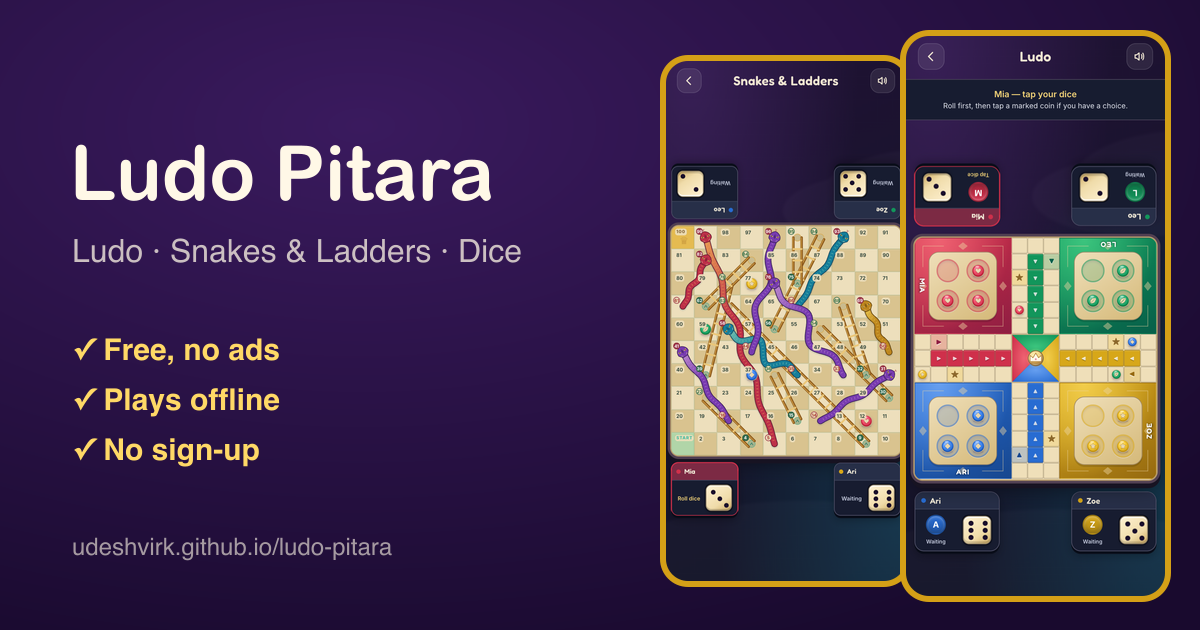
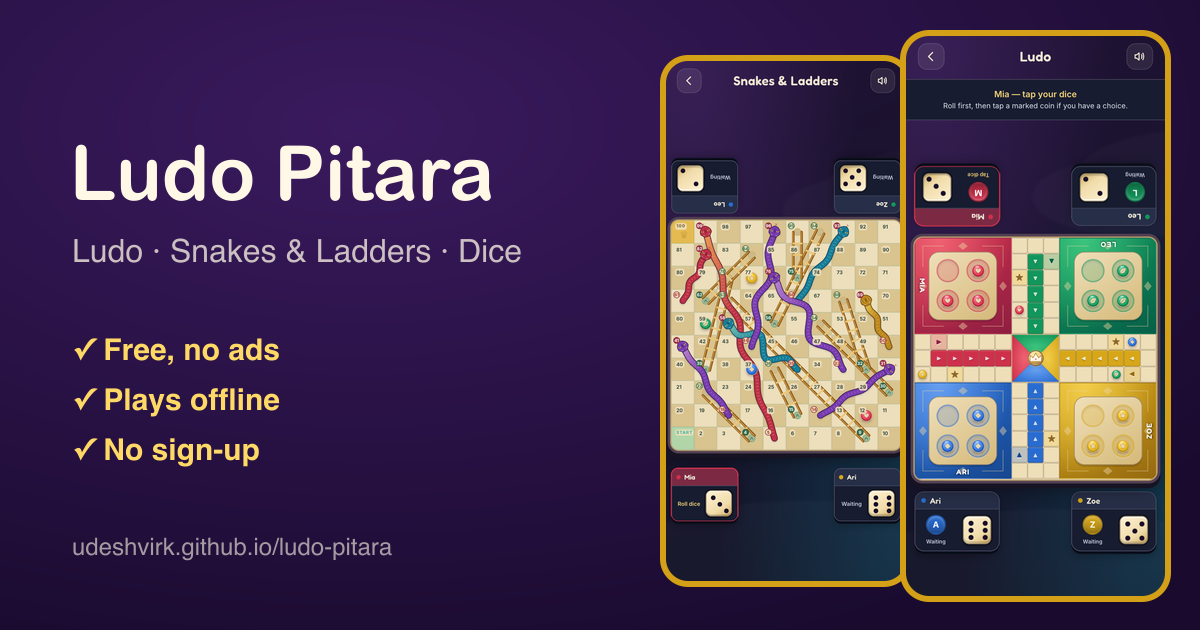
Add clearance between SNL board shadow and phone cards

Changed region(s): [[0.555, 0.2413, 0.7708, 0.8444]]

diff --git a/index.html b/index.html
@@ -17,12 +17,12 @@
     <meta property="og:title" content="Ludo Pitara — free Ludo & Snakes and Ladders, no ads" />
     <meta property="og:description" content="Play with friends on one phone or against bots. No ads, no sign-up, works offline." />
     <meta property="og:url" content="https://udeshvirk.github.io/ludo-pitara/" />
-    <meta property="og:image" content="https://udeshvirk.github.io/ludo-pitara/og-image-26492dc82e.png" />
+    <meta property="og:image" content="https://udeshvirk.github.io/ludo-pitara/og-image-dc3858a4ce.png" />
     <meta property="og:image:width" content="1200" />
     <meta property="og:image:height" content="630" />
     <meta property="og:image:alt" content="Ludo and Snakes & Ladders boards on a phone" />
     <meta name="twitter:card" content="summary_large_image" />
-    <meta name="twitter:image" content="https://udeshvirk.github.io/ludo-pitara/og-image-26492dc82e.png" />
+    <meta name="twitter:image" content="https://udeshvirk.github.io/ludo-pitara/og-image-dc3858a4ce.png" />
     <meta name="theme-color" content="#190a2e" />
     <meta name="apple-mobile-web-app-capable" content="yes" />
     <meta name="apple-mobile-web-app-status-bar-style" content="black-translucent" />

diff --git a/vite.config.ts b/vite.config.ts
@@ -26,8 +26,8 @@ export default defineConfig({
         // Phone screenshots give Android Chrome its richer install sheet.
         screenshots: [
           { src: 'screenshots/ludo.png?v=68b6ff7cba', sizes: '585x1266', type: 'image/png', form_factor: 'narrow', label: 'Ludo' },
-          { src: 'screenshots/snakes-and-ladders.png?v=90b5ef33e8', sizes: '585x1266', type: 'image/png', form_factor: 'narrow', label: 'Snakes & Ladders' },
-          { src: 'screenshots/game-select.png?v=8d7da01609', sizes: '585x1266', type: 'image/png', form_factor: 'narrow', label: 'Choose a game' },
+          { src: 'screenshots/snakes-and-ladders.png?v=8a5ee8aa9a', sizes: '585x1266', type: 'image/png', form_factor: 'narrow', label: 'Snakes & Ladders' },
+          { src: 'screenshots/game-select.png?v=dab704a093', sizes: '585x1266', type: 'image/png', form_factor: 'narrow', label: 'Choose a game' },
         ],
         icons: [
           {

diff --git a/src/index.css b/src/index.css
@@ -372,3 +372,7 @@ button:focus-visible, a:focus-visible { outline: 3px solid #ffe18c; outline-offs
 /* The board is positioned and casts a deep shadow. Keep phone player rows
    above it so that shadow cannot paint over the next card's top border. */
 .snl-phone-layout > .snl-player-row { position: relative; z-index: 1; }
+
+/* Leave physical clearance below the board's 7px raised base and 15px
+   drop shadow; mobile compositing must not decide whether a rim is visible. */
+.snl-phone-layout > .snl-player-row:last-child { margin-top: 18px; }

diff --git a/MEMORY.md b/MEMORY.md
@@ -78,7 +78,10 @@ placement logic with the new looks**. That is the current implementation in
   gutters are 9px; the board remains square. Tablet and wide layouts unchanged.
 - The mobile screenshot report was clarified: the card TOP BORDER, not its
   name, was obscured. Phone player rows must paint above the positioned board
-  and its deep shadow. Explicit name line height/wrapping remains in place.
+  and its deep shadow. S25 Ultra/Chrome still showed the lower card rim
+  obscured after stacking changes, so the bottom row also has 18px extra
+  physical clearance (30px total gap). Device confirmation remains pending.
+  Explicit name line height/wrapping remains in place.
 - Checked 320×568, 390×844, 430×932, 768×1024 and 844×390 with four players.
   Publishing includes refreshed screenshots and social preview assets.
 
